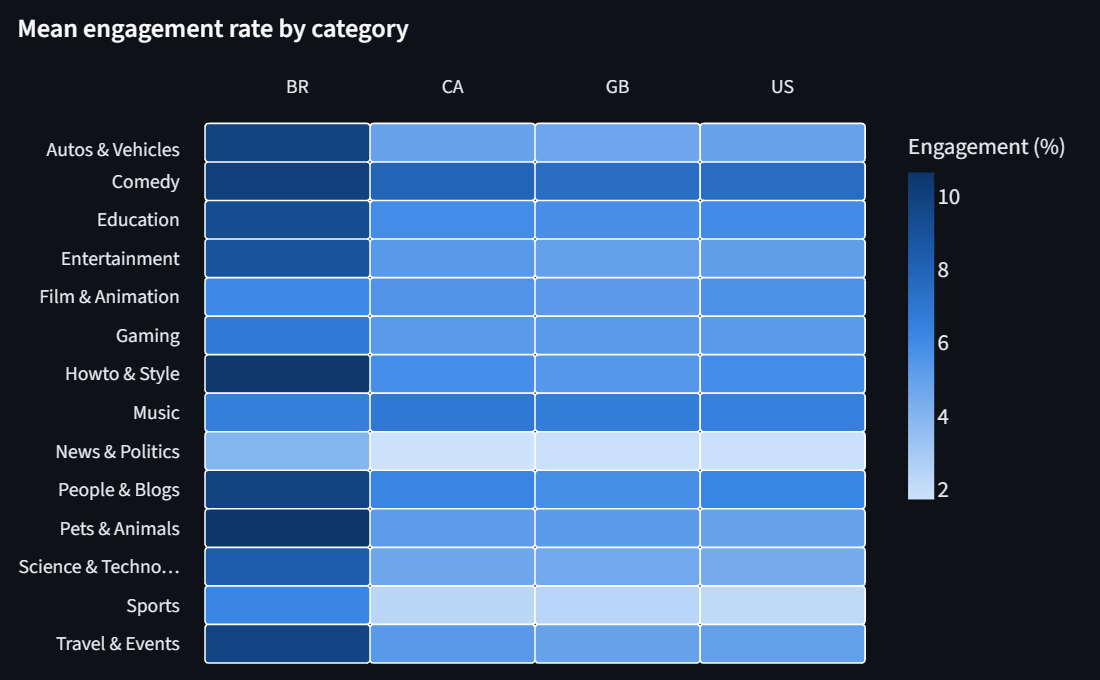
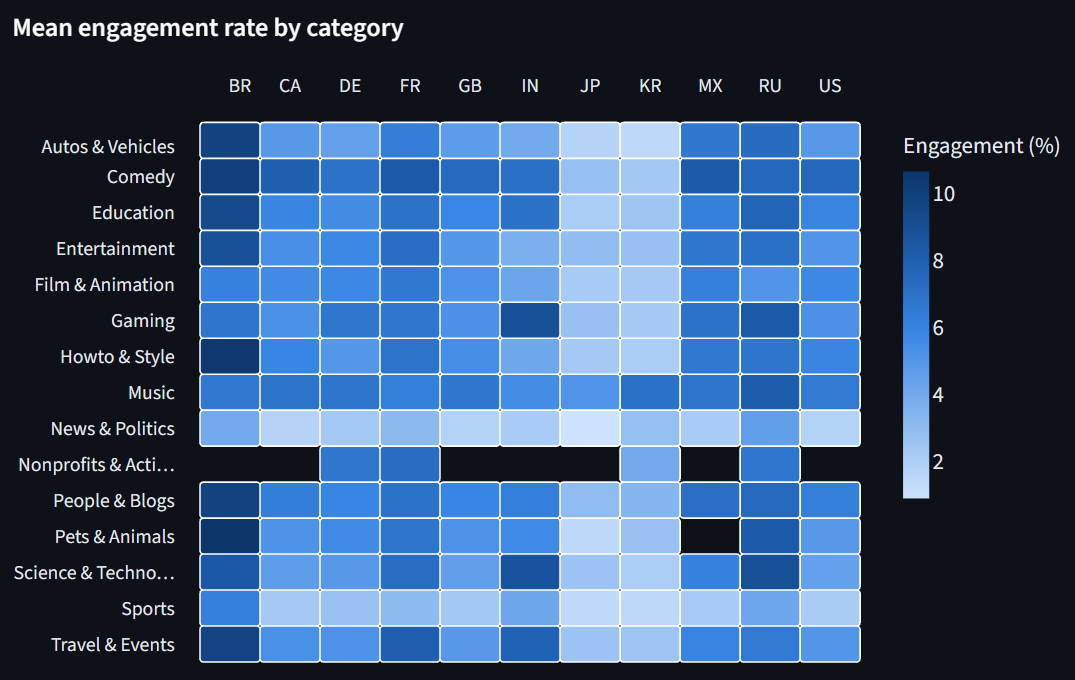
Show all 11 countries in the README's country heatmap screenshot

diff --git a/README.md b/README.md
@@ -84,8 +84,8 @@ Screenshots from the real data (US unless noted):
 **Publish timing:** Friday leads, and the heatmap shows engagement by publish hour.
 ![Engagement by publish weekday and by weekday and hour](docs/screenshots/publish_timing.png)
 
-**Countries** (4 of the 11): Brazil (BR) engages far more than the US, UK (GB) and Canada (CA) in almost every category.
-![Mean engagement rate by category for BR, CA, GB and US](docs/screenshots/countries.png)
+**Countries:** engagement by category across all 11 countries. Brazil (BR) is darkest almost everywhere, Japan (JP) and South Korea (KR) are pale except for Music, and News & Politics and Sports are light in nearly every country. Blank cells are categories with too few videos in that country.
+![Mean engagement rate by category for all 11 countries](docs/screenshots/countries.png)
 
 ## Title sentiment
 
